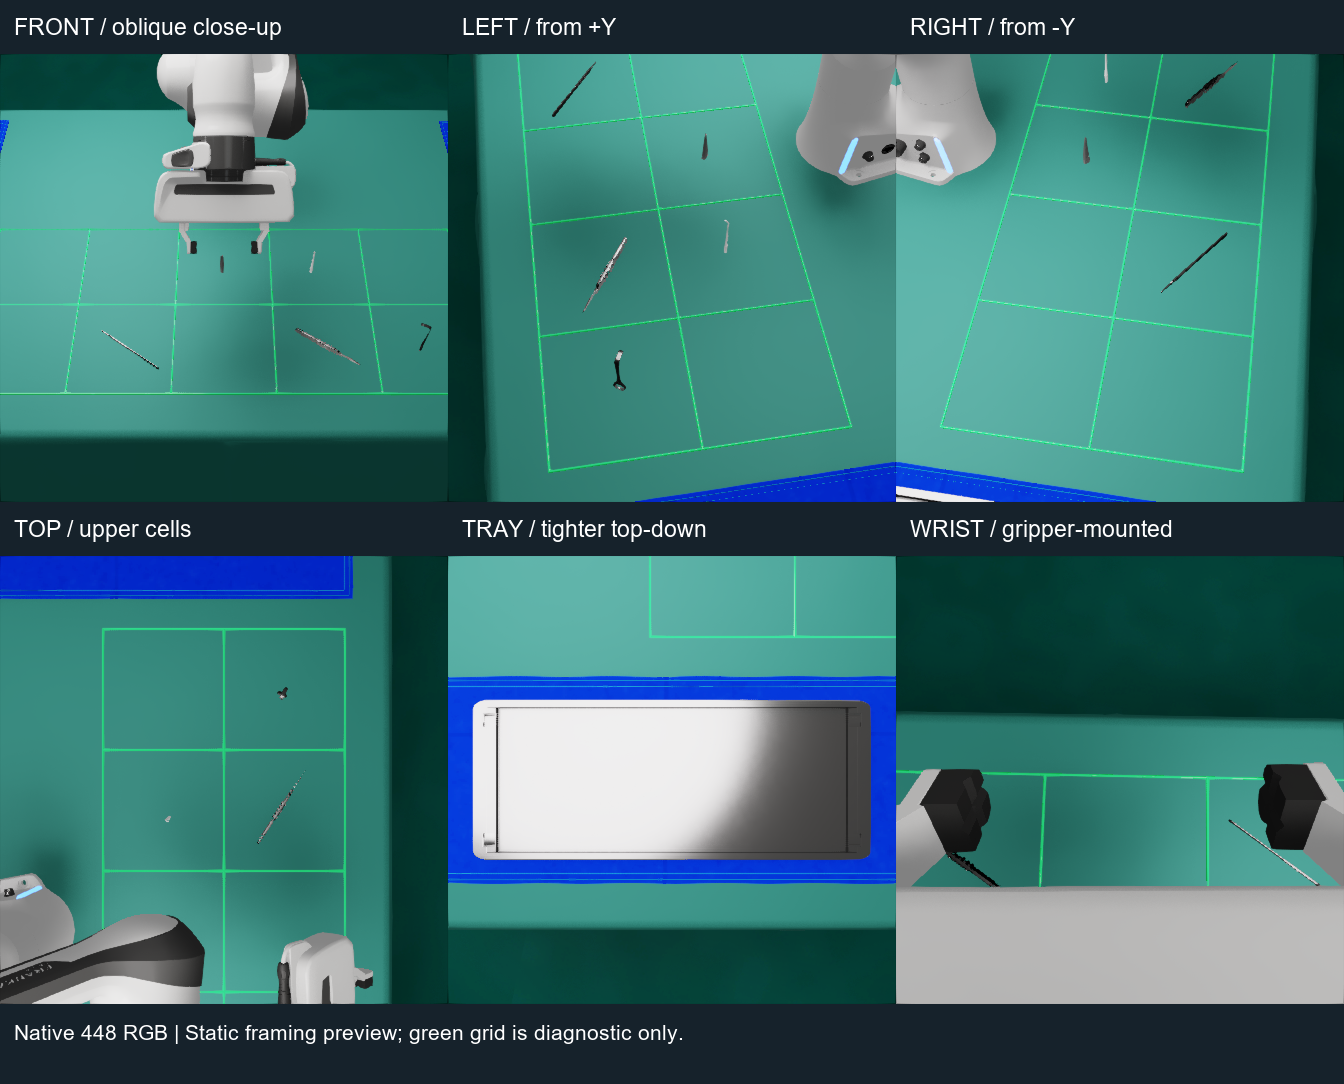
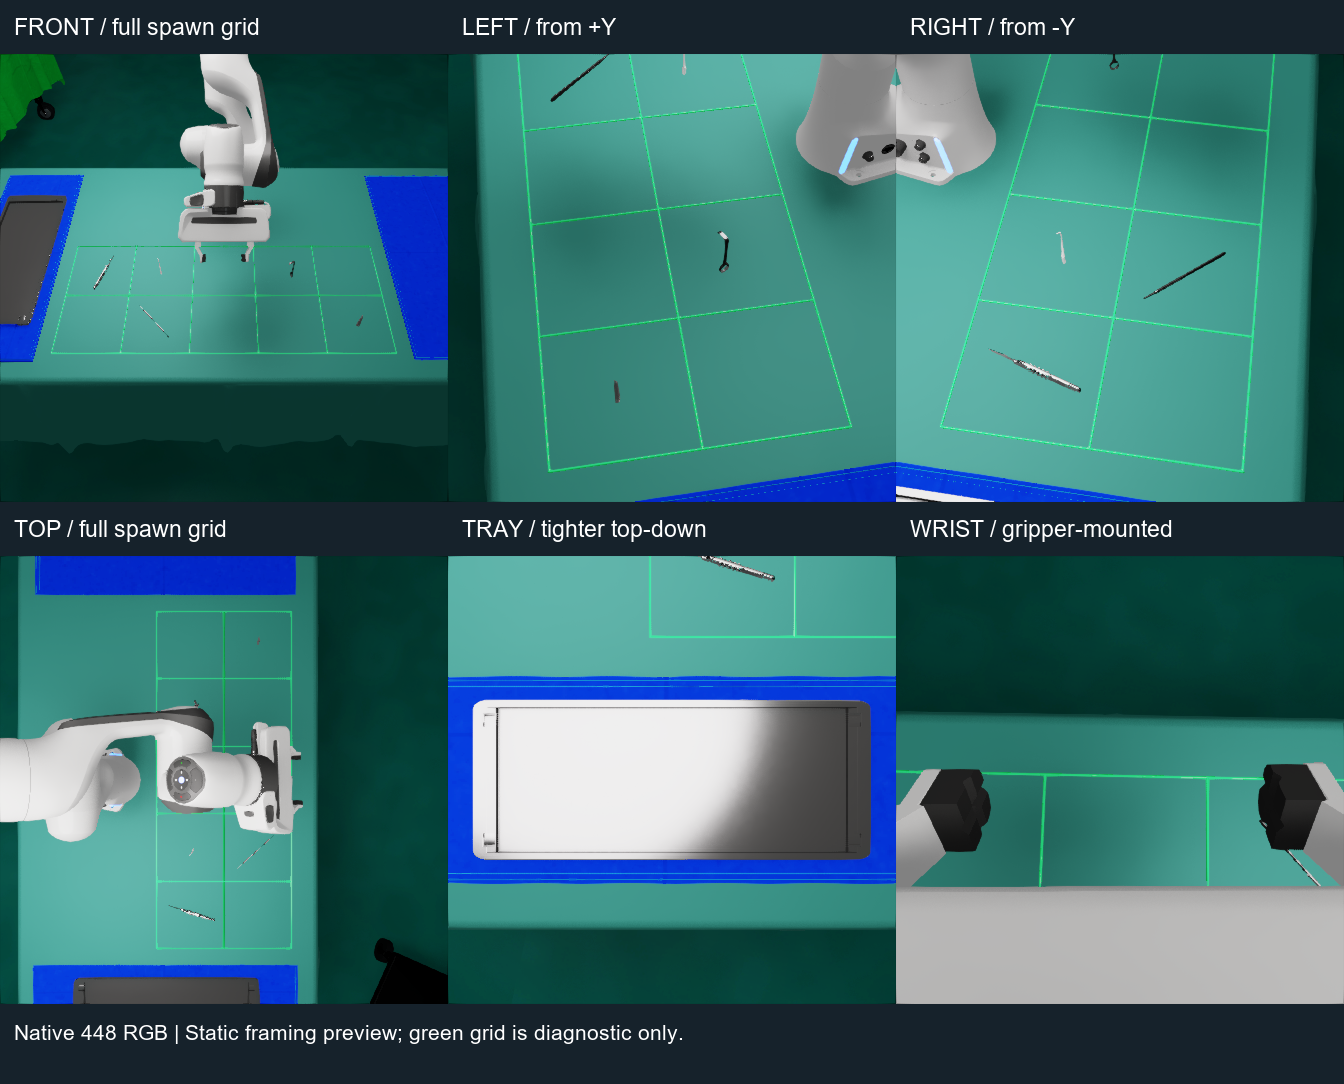
Cover entire spawn grid independently in front and top cameras

diff --git a/tests/test_front_focus.py b/tests/test_front_focus.py
@@ -25,7 +25,7 @@ class FrontFocusTests(unittest.TestCase):
             importlib.reload(tuning)
             layout=json.loads((ROOT/'env/scene_layout.json').read_text())
             # Overlapping side-view regions jointly cover all spawn cells.
-            regions={'camera':(-.5224,.1376), 'cam_left':(-.2124,.3076),
+            regions={'camera':layout['grid_y'], 'cam_left':(-.2124,.3076),
                      'cam_right':(-.6924,-.1724)}
             self.assertLessEqual(regions['cam_right'][0],layout['grid_y'][0])
             self.assertGreaterEqual(regions['cam_left'][1],layout['grid_y'][1])
@@ -48,14 +48,26 @@ class FrontFocusTests(unittest.TestCase):
             self.assertLess(directions['cam_left'][1],-.5)
             self.assertGreater(directions['cam_right'][1],.5)
 
-    def test_top_is_vertical_and_covers_upper_cells(self):
+    def test_front_and_top_each_cover_entire_spawn_with_margin(self):
+        # This must fail for the old partial-grid framing even if other
+        # cameras cover the omitted cells. Each of these views is an overview.
+        layout=json.loads((ROOT/'env/scene_layout.json').read_text())
+        points=np.array([[x,y,z]
+                         for x in (layout['grid_x'][0]-.02,layout['grid_x'][1]+.02)
+                         for y in (layout['grid_y'][0]-.02,layout['grid_y'][1]+.02)
+                         for z in (0,.18)])
+        for name in ('camera','cam_top'):
+            c=tuning.PHASE3_CAMERAS[name];q=c['rot']
+            rotation=Rotation.from_quat([*q[1:],q[0]]).as_matrix()
+            local=(points-np.array(c['pos']))@rotation
+            self.assertTrue(np.all(local[:,2]>0),name)
+            xy=local[:,:2]/local[:,2:]*c['focal_length']/c['horizontal_aperture']
+            self.assertLess(float(np.abs(xy).max()),.48,name)
+
+    def test_top_is_vertical(self):
         c=tuning.PHASE3_CAMERAS['cam_top'];q=c['rot']
         rotation=Rotation.from_quat([*q[1:],q[0]]).as_matrix()
         np.testing.assert_allclose(rotation[:,2],[0,0,-1],atol=1e-6)
-        points=np.array([[x,y,z] for x in (.12,.52)
-                         for y in (-.1924,.3076) for z in (0,.12)])
-        local=(points-np.array(c['pos']))@rotation
-        self.assertLess(float(np.abs(local[:,:2]/local[:,2:]*c['focal_length']/c['horizontal_aperture']).max()),.48)
 
     def test_tray_fills_but_does_not_clip_tray_camera(self):
         with patch.dict(os.environ,{'P4_RESUME_CAMERA_MANIFEST':'','P4_CAMERA_FOV_SCALE':'0.75'}):

diff --git a/README.md b/README.md
@@ -78,9 +78,9 @@ flowchart LR
 
 | Camera | RGB dataset in H5 | Purpose |
 | --- | --- | --- |
-| Front | `observations/front_rgb` | Tight elevated frontal view of the central spawn region |
+| Front | `observations/front_rgb` | Elevated frontal view covering the entire spawn grid |
 | Wrist / grip | `observations/wrist_rgb` | Moving close-up of the grasp and nearby instruments |
-| Top | `observations/cam_top_rgb` | Vertical close-up of the upper spawn cells |
+| Top | `observations/cam_top_rgb` | Vertical overview covering the entire spawn grid |
 | Left | `observations/cam_left_rgb` | Oblique view from the positive-Y side, focused on upper spawn cells |
 | Right | `observations/cam_right_rgb` | Oblique view from the negative-Y side, focused on lower spawn cells |
 | Tray | `observations/cam_tray_rgb` | Tight vertical close-up of the complete tray |
@@ -90,9 +90,9 @@ flowchart LR
 PNG previews contain sampled frames; H5 stores every frame within the selected segments.
 448 + FXAA improves sampling and edges, but does not guarantee that small objects remain clear at the final 224 resolution.
 Resume preserves the original session's camera layout; start a new session to use new framing.
-Front, left, and right retain distinct oblique viewing directions. Overlapping
-left/right regions jointly cover every spawn cell; front focuses on the middle
-and top on the upper cells. Tray has
+Front, left, and right retain distinct oblique viewing directions. Front and top
+each cover the entire spawn grid, including a 2 cm XY margin through 18 cm above
+the table. Left/right provide overlapping closer side views. Tray has
 its own tighter vertical view. A long rectangular work area cannot fill a square
 image in both axes, so some surrounding table remains visible. Robot parts can still
 cross a spawn view during manipulation because the arm physically operates above
